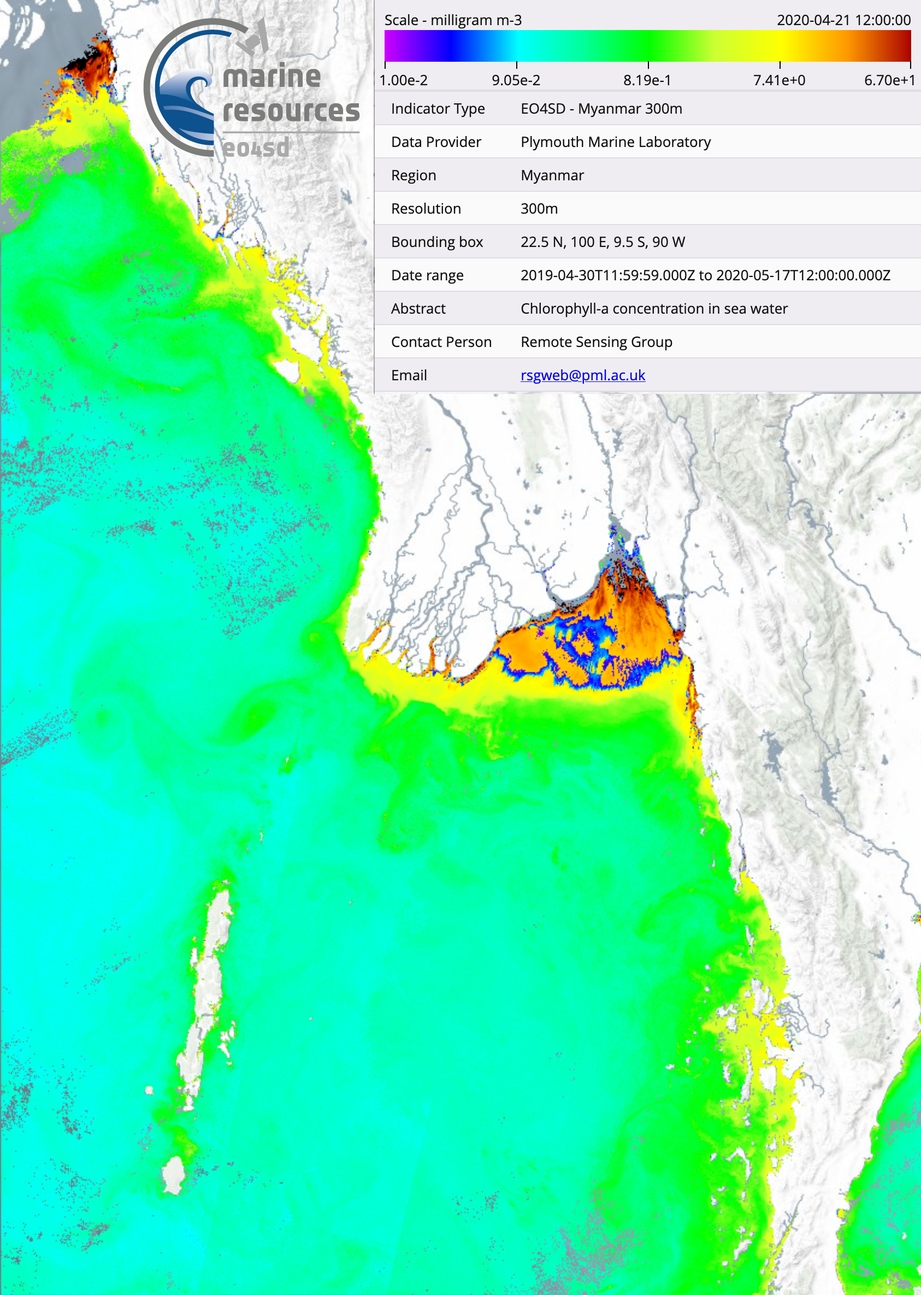
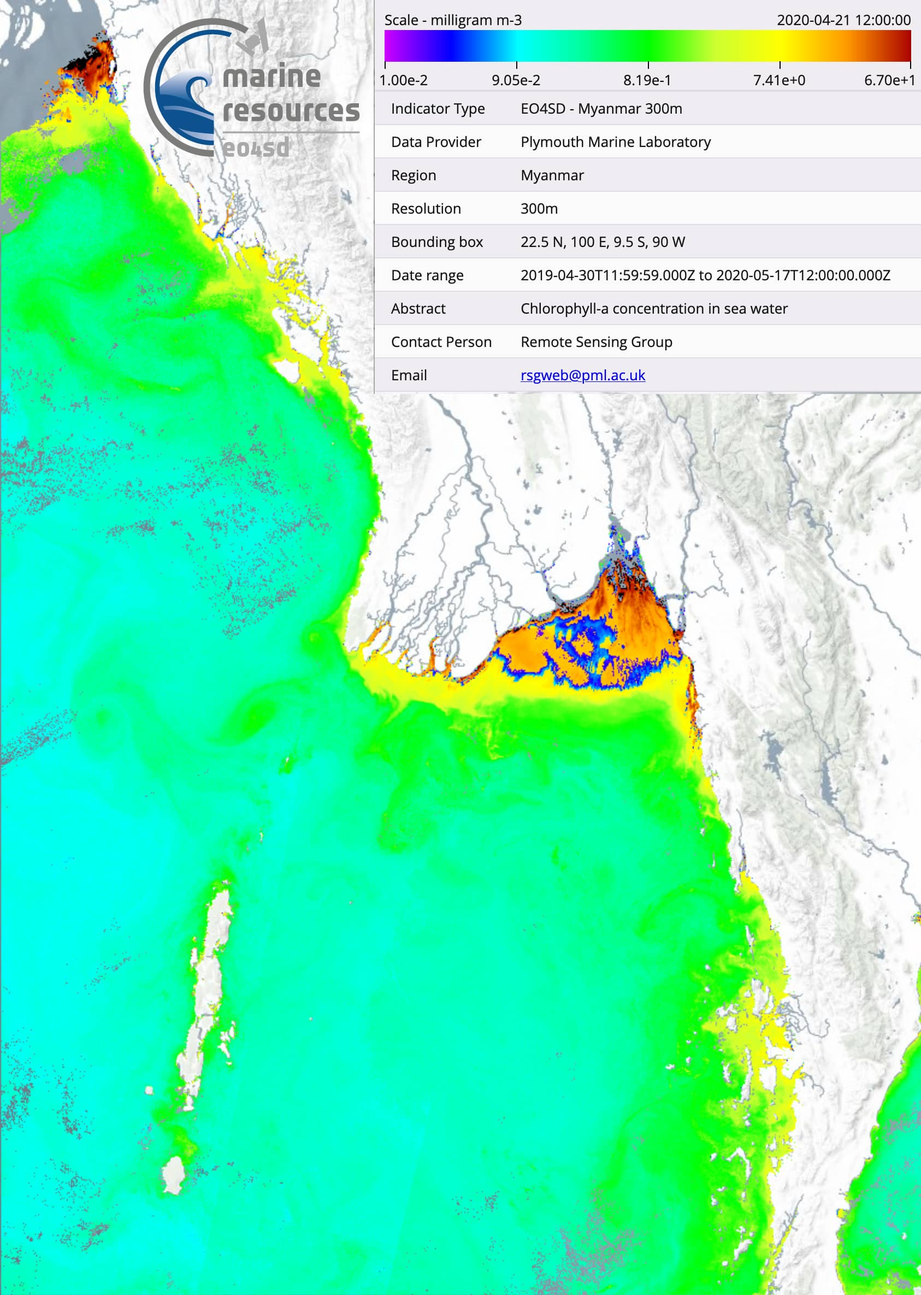
Cleanup. Statistics about image compression.

diff --git a/areas/bay_of_bengal.html b/areas/bay_of_bengal.html
@@ -135,7 +135,7 @@
     <tbody class="table-hover">
     <tr>
         <td class="text-center"><strong>Water quality for large geographical regions</strong></td>
-        <td class="text-center"><a href="../data/BayOfBengal/Myanmar_chla_20200421.jpg" target="_blank"><img src="../data/BayOfBengal/Myanmar_chla_20200421_ql.jpg" alt="Chl-a QL"/></a><br>(3.1MB)</td>
+        <td class="text-center"><a href="../data/BayOfBengal/Myanmar_chla_20200421.jpg" target="_blank"><img src="../data/BayOfBengal/Myanmar_chla_20200421_ql.jpg" alt="Chl-a QL"/></a><br>(277 KB)</td>
         <td class="text-center">Example of a Chl-a map for Myanmar</td>
         <td class="text-center"><strong>Myanmar</strong></td>
         <td class="text-center"><strong>April 21, 2020</strong></td>
